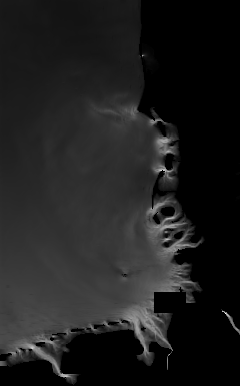
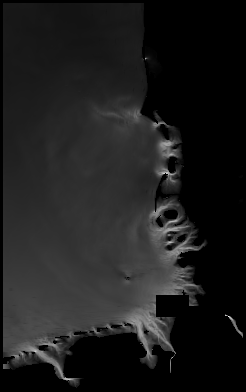
fix(web): rasters de marée sans liseré ni décalage (ATLNE coupé à sa boîte de validité, ordre de la cascade, tablier de 3 km complémentaire du raster grossier, pixels nets à tout zoom)

diff --git a/packages/web/src/routes/methodologie.css b/packages/web/src/routes/methodologie.css
@@ -284,6 +284,12 @@
   border: 1px solid rgba(15, 23, 42, 0.25);
   box-sizing: border-box;
 }
+/* The current rasters are the data at its native pitch: no smoothing, a
+   250 m pixel stays a square at any zoom. */
+.methodo-map-canvas .leaflet-tidal-rasters-pane img {
+  image-rendering: pixelated;
+  image-rendering: crisp-edges;
+}
 .methodo-map-ramp {
   display: inline-block;
   width: 42px;

diff --git a/scripts/build_tidal_world_raster.py b/scripts/build_tidal_world_raster.py
@@ -31,8 +31,9 @@ a click.
 Rules, the same as the masks: the maximum is reconstructed hourly over one
 spring/neap cycle from all the constituents of the cell; land pixels are
 removed with the Natural Earth 10 m ocean polygon (the regridded MARC
-atlases carry extrapolated values over land); where a finer atlas has a
-cell, the coarser atlas is blanked, so the finest atlas wins everywhere.
+atlases carry extrapolated values over land); where an atlas ahead in the
+cascade (rank, then resolution) has a cell, the one behind is blanked, so
+the picture shows what the server serves.
 
 Usage::
 
@@ -103,8 +104,23 @@ def atlas_grid(
     ix = np.rint((lon - lon0) / dlon).astype(int)
     arr = np.full((iy.max() + 1, ix.max() + 1), np.nan)
     arr[iy, ix] = kt
+    # An apron of about 3 km of empty pixels around the atlas: filled later
+    # from the coarser atlases, it covers the coarse pixels that straddle
+    # this atlas's edge once they are blanked, so no hairline of basemap
+    # shows along the seam.
+    k = max(1, int(round(3000.0 / float(meta["resolution_m"]))))
+    arr = np.pad(arr, k, constant_values=np.nan)
+    lat0 -= k * dlat
+    lon0 -= k * dlon
     rows = lat0 + dlat * np.arange(arr.shape[0])
     cols = lon0 + dlon * np.arange(arr.shape[1])
+    vb = meta.get("validity_bbox")
+    if vb:
+        # The runtime refuses the atlas outside its validity box (ATLNE in
+        # the North Sea); the picture must not show what is not served.
+        lat_ok = (rows >= vb[0]) & (rows <= vb[2])
+        lon_ok = (cols >= vb[1]) & (cols <= vb[3])
+        arr = np.where(lat_ok[:, None] & lon_ok[None, :], arr, np.nan)
     return meta, rows, cols, arr
 
 
@@ -148,24 +164,61 @@ def ocean_mask(rows: np.ndarray, cols: np.ndarray, ocean) -> np.ndarray:
     return burned[::-1].astype(bool)  # back to south-up
 
 
+def fill_from_coarser(
+    rows: np.ndarray,
+    cols: np.ndarray,
+    arr: np.ndarray,
+    coarser: list[tuple[np.ndarray, np.ndarray, np.ndarray]],
+) -> np.ndarray:
+    """A pixel without a cell takes the value of the coarsest-to-finest
+    atlas underneath it, so a regridded MARC lattice with a cell missing
+    every fourth position (FINIS keeps three quarters of its lattice) does
+    not show the basemap through a dither, and the mosaic has no seam."""
+    out = arr.copy()
+    lat_c, lon_c = np.meshgrid(rows, cols, indexing="ij")
+    for f_rows, f_cols, f_arr in reversed(coarser):  # coarsest first, finer overwrite
+        dlat = float(f_rows[1] - f_rows[0])
+        dlon = float(f_cols[1] - f_cols[0])
+        iy = np.rint((lat_c - f_rows[0]) / dlat).astype(int)
+        ix = np.rint((lon_c - f_cols[0]) / dlon).astype(int)
+        inside = (iy >= 0) & (iy < f_arr.shape[0]) & (ix >= 0) & (ix < f_arr.shape[1])
+        vals = np.full(out.shape, np.nan)
+        vals[inside] = f_arr[iy[inside], ix[inside]]
+        take = np.isnan(out) & np.isfinite(vals)
+        out[take] = vals[take]
+    return out
+
+
 def blank_under_finer(
     rows: np.ndarray,
     cols: np.ndarray,
     arr: np.ndarray,
     finer: list[tuple[np.ndarray, np.ndarray, np.ndarray]],
 ) -> np.ndarray:
-    """NaN where any finer atlas has a cell at this pixel's centre."""
+    """NaN wherever a finer atlas has one of its own cells inside the pixel.
+
+    The finer cells are scattered onto this grid: a coarse pixel goes as
+    soon as one fine cell centre falls in it, so the two never overlap; the
+    fine raster's apron, kept only over blanked coarse pixels, fills what
+    the removal uncovered.
+    """
     out = arr.copy()
-    lat_c, lon_c = np.meshgrid(rows, cols, indexing="ij")
-    for f_rows, f_cols, f_arr in finer:
-        dlat = float(f_rows[1] - f_rows[0])
-        dlon = float(f_cols[1] - f_cols[0])
-        iy = np.rint((lat_c - f_rows[0]) / dlat).astype(int)
-        ix = np.rint((lon_c - f_cols[0]) / dlon).astype(int)
-        inside = (iy >= 0) & (iy < f_arr.shape[0]) & (ix >= 0) & (ix < f_arr.shape[1])
-        hit = np.zeros_like(inside)
-        hit[inside] = np.isfinite(f_arr[iy[inside], ix[inside]])
-        out[hit] = np.nan
+    dlat = float(rows[1] - rows[0])
+    dlon = float(cols[1] - cols[0])
+    for f_rows, f_cols, f_own in finer:
+        fy, fx = np.nonzero(f_own)
+        if fy.size == 0:
+            continue
+        f_dlat = float(f_rows[1] - f_rows[0]) if f_rows.size > 1 else 0.0
+        f_dlon = float(f_cols[1] - f_cols[0]) if f_cols.size > 1 else 0.0
+        # The centre and the four corners of each fine cell: a coarse pixel
+        # touched by any part of a fine cell goes, so pitches of the same
+        # order (ATLNE 2 km over Copernicus 1.5 km) cannot overlap either.
+        for oy, ox in ((0.0, 0.0), (0.5, 0.5), (0.5, -0.5), (-0.5, 0.5), (-0.5, -0.5)):
+            iy = np.rint((f_rows[fy] + oy * f_dlat - rows[0]) / dlat).astype(int)
+            ix = np.rint((f_cols[fx] + ox * f_dlon - cols[0]) / dlon).astype(int)
+            inside = (iy >= 0) & (iy < out.shape[0]) & (ix >= 0) & (ix < out.shape[1])
+            out[iy[inside], ix[inside]] = np.nan
     return out
 
 
@@ -236,23 +289,70 @@ def main(argv: list[str] | None = None) -> int:
     grids = []
     for atlas_dir in args.atlas_dir:
         meta, rows, cols, arr = atlas_grid(atlas_dir, args.days, mask_mod)
-        arr = fill_pinholes(arr)
-        if ocean is not None:
-            arr = np.where(ocean_mask(rows, cols, ocean), arr, np.nan)
-        grids.append((meta, rows, cols, arr))
+        grids.append((meta, rows, cols, fill_pinholes(arr)))
         print(
             f"[{meta['atlas']}] {arr.shape[1]}x{arr.shape[0]} px, {int(np.isfinite(arr).sum())} cells, "
             f"max {np.nanmax(arr):.1f} kt ({time.perf_counter() - t0:.0f} s)",
             file=sys.stderr,
         )
-    grids.sort(key=lambda g: int(g[0]["resolution_m"]))  # finest first
+    # Cascade order, as the server picks: rank first, then resolution. ATLNE
+    # (rank 1) keeps its validity box over Copernicus NWS (rank 0, finer).
+    grids.sort(key=lambda g: (-int(g[0].get("rank", 0)), int(g[0]["resolution_m"])))
+    # Mosaic: a finer raster fills its holes from the coarser ones, then the
+    # coast is cut at the finer pitch, then the coarser rasters are blanked
+    # under every finer pixel, so exactly one raster speaks at each point.
+    filled = []
+    owned = []  # per raster: the atlas's own cells, at sea
+    borrowed = []  # per raster: pixels that came from a coarser atlas
+    for i, (meta, rows, cols, arr) in enumerate(grids):
+        own = np.isfinite(arr)
+        coarser = [(r, c, a) for _m, r, c, a in grids[i + 1 :]]
+        arr = fill_from_coarser(rows, cols, arr, coarser) if coarser else arr
+        if ocean is not None:
+            arr = np.where(ocean_mask(rows, cols, ocean), arr, np.nan)
+        filled.append((meta, rows, cols, arr))
+        owned.append(own & np.isfinite(arr))
+        borrowed.append(np.isfinite(arr) & ~own)
+    grids = filled
+    # Blank each raster under the own cells of the ones ahead in the cascade.
+    blanked = []
+    for i, (meta, rows, cols, arr) in enumerate(grids):
+        ahead = [(grids[j][1], grids[j][2], owned[j]) for j in range(i)]
+        blanked.append(blank_under_finer(rows, cols, arr, ahead) if ahead else arr)
+    # A borrowed pixel (apron, hole) is kept only where the coarser pixel
+    # under it was blanked: the two layers are then exact complements, no
+    # gap of basemap, no doubled transparency along the seams.
+    final = []
+    for i, (meta, rows, cols, arr) in enumerate(grids):
+        arr = blanked[i].copy()
+        if borrowed[i].any():
+            lat_c, lon_c = np.meshgrid(rows, cols, indexing="ij")
+            still_under = np.zeros(arr.shape, dtype=bool)
+            for _m, c_rows, c_cols, c_arr in [
+                (grids[j][0], grids[j][1], grids[j][2], blanked[j])
+                for j in range(i + 1, len(grids))
+            ]:
+                dlat = float(c_rows[1] - c_rows[0])
+                dlon = float(c_cols[1] - c_cols[0])
+                iy = np.rint((lat_c - c_rows[0]) / dlat).astype(int)
+                ix = np.rint((lon_c - c_cols[0]) / dlon).astype(int)
+                inside = (
+                    (iy >= 0)
+                    & (iy < c_arr.shape[0])
+                    & (ix >= 0)
+                    & (ix < c_arr.shape[1])
+                )
+                hit = np.zeros(arr.shape, dtype=bool)
+                hit[inside] = np.isfinite(c_arr[iy[inside], ix[inside]])
+                still_under |= hit
+            arr[borrowed[i] & still_under] = np.nan
+        final.append((meta, rows, cols, arr))
+    grids = final
     args.out_dir.mkdir(parents=True, exist_ok=True)
     for old in args.out_dir.glob("*.png"):
         old.unlink()
     manifest = []
-    for i, (meta, rows, cols, arr) in enumerate(grids):
-        finer = [(r, c, a) for _m, r, c, a in grids[:i]]
-        arr = blank_under_finer(rows, cols, arr, finer) if finer else arr
+    for meta, rows, cols, arr in grids:
         img, south, north = to_mercator_rows(rows, arr)
         dlon = float(cols[1] - cols[0])
         name = meta["atlas"].lower()
@@ -264,6 +364,7 @@ def main(argv: list[str] | None = None) -> int:
                 "atlas": meta["atlas"],
                 "label": meta.get("label") or meta["atlas"],
                 "resolution_m": int(meta["resolution_m"]),
+                "rank": int(meta.get("rank", 0)),
                 "file": f"raster/{name}.png",
                 "bounds": [
                     [south, float(cols[0] - dlon / 2)],
@@ -273,9 +374,7 @@ def main(argv: list[str] | None = None) -> int:
                 "cells": int(np.isfinite(arr).sum()),
             }
         )
-    manifest.sort(
-        key=lambda m: -m["resolution_m"]
-    )  # draw order: coarse first, fine on top
+    manifest.reverse()  # draw order: the last of the cascade first, its head on top
     (args.out_dir / "rasters.json").write_text(
         json.dumps(
             {
